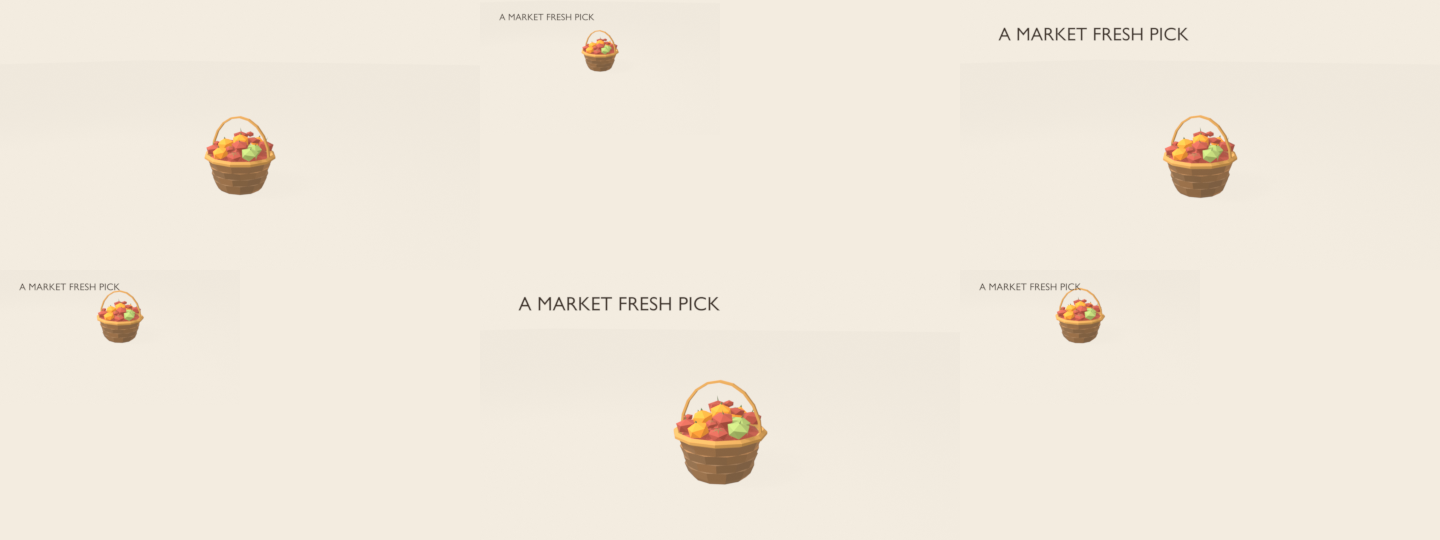
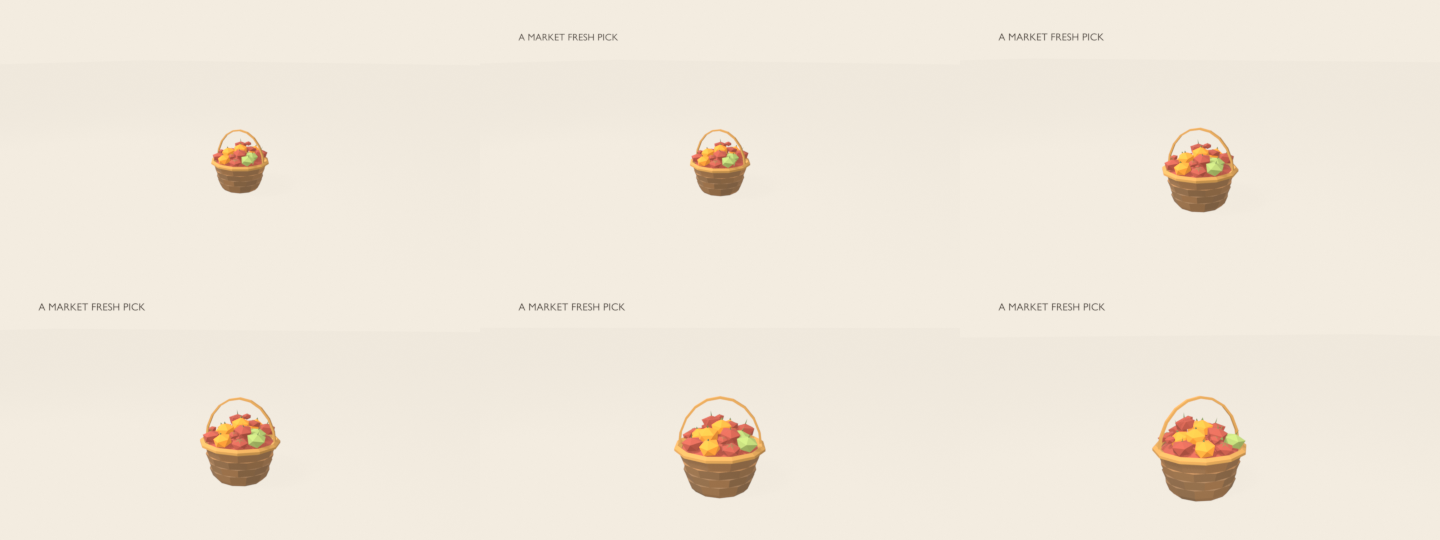
Add aspect-aware shot output and draft renders
Render app-sized portrait, landscape, square and 4:5 shots at 30 fps with a half-size draft option.

diff --git a/shots/render_shot.py b/shots/render_shot.py
@@ -24,9 +24,12 @@ if aspect:
     W, H = ASPECTS[aspect]
 else:
     W, H = map(int, S["resolution"])
+contract_resolution = [W, H]
 effective_aspect = aspect or (f"{W}:{H}")
-if draft and mode == "final":
-    W, H = W // 2, H // 2
+render_percentage = 25 if mode == "proof" else 50 if draft else 100
+movie_w = W * (render_percentage // 100) if render_percentage == 100 else W * render_percentage // 100
+movie_h = H * (render_percentage // 100) if render_percentage == 100 else H * render_percentage // 100
+movie_w -= movie_w % 2; movie_h -= movie_h % 2
 fps, duration = int(S.get("fps", 30)), float(S["duration"])
 frames = round(fps * duration)
 proof_hash = hashlib.sha256(spec_path.read_bytes()).hexdigest()
@@ -35,7 +38,7 @@ if mode == "final" and not force:
     if not proof_file.is_file():
         raise SystemExit("Final blocked: no proof.json found; run --proof first or pass --force")
     saved = json.loads(proof_file.read_text(encoding="utf-8"))
-    if not saved.get("passed") or saved.get("spec_sha256") != proof_hash or saved.get("aspect") != effective_aspect or saved.get("resolution") != [W, H]:
+    if not saved.get("passed") or saved.get("spec_sha256") != proof_hash or saved.get("aspect") != effective_aspect or saved.get("resolution") != contract_resolution:
         raise SystemExit("Final blocked: the matching proof failed or is stale; fix the spec and rerun --proof, or pass --force")
 
 def lin(hexstr, alpha=1):
@@ -69,7 +72,8 @@ def at(keys, t):
 bpy.ops.wm.read_factory_settings(use_empty=True)
 sc=bpy.context.scene; sc.render.engine="BLENDER_EEVEE"
 sc.render.resolution_x=W; sc.render.resolution_y=H
-sc.render.resolution_percentage=25 if mode=="proof" else 50 if draft else 100
+sc.render.resolution_percentage=render_percentage
+sc.eevee.taa_render_samples=4 if mode=="proof" else 8
 sc.render.fps=fps; sc.render.image_settings.file_format="PNG"; sc.render.image_settings.color_mode="RGB"
 sc.render.film_transparent=False; sc.view_settings.view_transform="Standard"
 paper=S.get("background", "#f3ece0")
@@ -160,13 +164,15 @@ if mode=="proof":
     result=subprocess.run(["node","-e",js,str(frame_dir),str(sheet)],cwd=str(ROOT/"web"),capture_output=True,text=True)
     if result.returncode: raise RuntimeError("contact sheet failed: "+result.stderr)
     passed=all(c["status"]=="PASS" for c in all_checks)
-    proof={"passed":passed,"spec":str(spec_path.relative_to(ROOT)),"spec_sha256":proof_hash,"aspect":effective_aspect,"resolution":[W,H],"fps":fps,"frames":sample_frames,"elapsed_s":round(elapsed,3),"checks":all_checks}
+    proof={"passed":passed,"spec":str(spec_path.relative_to(ROOT)),"spec_sha256":proof_hash,"aspect":effective_aspect,"resolution":contract_resolution,"proof_render_size":[round(contract_resolution[0]*.25),round(contract_resolution[1]*.25)],"fps":fps,"frames":sample_frames,"elapsed_s":round(elapsed,3),"checks":all_checks}
     proof_file.write_text(json.dumps(proof,indent=2),encoding="utf-8")
     for c in all_checks: print(f'{c["status"]}: frame={c["frame"]} t={c["time"]:.3f}s {c["name"]}: {c["detail"]}')
     print(("PASS" if passed else "FAIL")+f": proof overall ({sum(c['status']=='PASS' for c in all_checks)}/{len(all_checks)} checks); {elapsed:.2f}s; {sheet}; {proof_file}")
 else:
     movie=out/(spec_path.stem+".mp4")
     ffmpeg=ROOT/"web"/"node_modules"/"@remotion"/"compositor-win32-x64-msvc"/"ffmpeg.exe"
-    encoder=subprocess.run([str(ffmpeg),"-y","-framerate",str(fps),"-i",str(frame_dir/"%05d.png"),"-c:v","libx264","-pix_fmt","yuv420p",str(movie)],cwd=str(ROOT/"web"),capture_output=True,text=True)
+    # H.264 4:2:0 needs even pixel dimensions; the half-size 4:5 draft is 540×675,
+    # so trim one row during encode to keep broad yuv420p playback compatibility.
+    encoder=subprocess.run([str(ffmpeg),"-y","-framerate",str(fps),"-i",str(frame_dir/"%05d.png"),"-vf","scale=trunc(iw/2)*2:trunc(ih/2)*2","-c:v","libx264","-pix_fmt","yuv420p",str(movie)],cwd=str(ROOT/"web"),capture_output=True,text=True)
     if encoder.returncode: raise RuntimeError("Remotion FFmpeg encode failed: "+encoder.stderr[-3000:])
-    print(f"PASS: final rendered {len(list(sample_frames))} frames in {elapsed:.2f}s; encoded {movie} ({movie.stat().st_size} bytes)")
+    print(f"PASS: final rendered {len(list(sample_frames))} frames at {movie_w}x{movie_h} (contract {W}x{H}; {render_percentage}%) in {elapsed:.2f}s; encoded {movie} ({movie.stat().st_size} bytes)")

diff --git a/briefs/shots.report.md b/briefs/shots.report.md
@@ -13,6 +13,13 @@
 - **flyby:** 2 proof rounds; **90/90 PASS**, final check time 6.373 s. Round 1 found the title outside the safe region; moving it down in the spec cleared all checks. All three props have lowest z=0.000 m.
 - All proofs used 30 fps, 1920×1080 specs. Refreshed passing contact sheets are in the library README. All background samples are ΔE76≤3 (final successful run: 0.000 for hero/flyby; 0.000 on reveal's final JSON).
 
+### Step 3: app aspect sizes and drafts
+
+- Hero proof rounds for aspect coverage: **2**. First exposed portrait title/object crop and 4:5 title overflow; reducing the hero scale and font size in the spec made 9:16, 16:9, 1:1, and 4:5 all pass **34/34**. Each run rendered six proof frames at 30 fps; check times were approximately 3.6–4.1 s.
+- Encoded and probed 10-second 30 fps half-resolution MP4s for all four aspect contracts: 540×960 (9:16, 57.89 s), 960×540 (16:9, 51.29 s), 540×540 (1:1, 44.87 s), and 540×674 (4:5, 45.91 s). H.264 4:2:0 requires even dimensions, so the odd 675-pixel 4:5 draft height loses one bottom row during encode. Full-size 1080×1350 remains exact.
+- **Required hero final:** 300 frames at 1080×1920 / 30 fps. Blender frame render: **106.82 s**; complete command including startup and H.264 encode: **111.44 s**. Output `shots/out/hero-final-9x16/hero-orbit.mp4`, 670,613 bytes, probed as exactly 10.00 s H.264, 1080×1920, 30 fps.
+- A preliminary draft test exposed a double-halving bug and failed 4:5 H.264 encoding. Both were corrected before the successful matrix above: `--draft` now sets Blender's 50% percentage against the full contract dimensions, and encoding trims only the odd 4:5 draft row.
+
 ## What works
 
 - `shots/render_shot.py` reads the documented JSON spec, builds a Blender EEVEE scene, imports GLB props or creates Blender primitives, animates camera/object keyframes, lights and exact-time text overlays.

diff --git a/shots/spec.md b/shots/spec.md
@@ -10,4 +10,4 @@ Each JSON spec is a self-contained, portable Blender shot. Paths to GLB assets a
 
 All keyframe easing is deterministic between keys. Proof mode renders six evenly spaced frames at one-quarter resolution and writes a contact sheet, machine-readable `proof.json`, and per-check PASS/FAIL output. Checks cover text boxes vs projected object bounds, the title-safe region (normalized x=.04-.96, y=.04-.33), floor contact (z=0 within 1 cm unless `airborne`), background ΔE76≤3, and in-frame object bounds unless `allow_offscreen`, `enters`, or `exits` is set. Optional `subject_top_min` requires the projected subject to begin below a normalized y coordinate.
 
-Final mode requires a passing proof for the same spec hash, aspect, and output dimensions. `--force` bypasses that guard. `--aspect 9:16|16:9|1:1|4:5` selects app output dimensions (1080×1920, 1920×1080, 1080×1080, 1080×1350); `--draft` renders final output at half size. The spec's `fps` controls proof and final output.
+Final mode requires a passing proof for the same spec hash, aspect, and full output contract dimensions. `--force` bypasses that guard. `--aspect 9:16|16:9|1:1|4:5` selects app output dimensions (1080×1920, 1920×1080, 1080×1080, 1080×1350); `--draft` renders final output at 50% resolution while retaining that same proof contract. If a draft dimension is odd, H.264 encoding trims the last row/column to remain yuv420p compatible. The spec's `fps` controls proof and final output (the library uses the app's 30 fps).

diff --git a/shots/library/README.md b/shots/library/README.md
@@ -10,6 +10,8 @@ $blender = "C:/Users/naomi/Documents/vscode shenanigans/ManilaHack/bench3d/tools
 
 The final mode writes PNG frames and an H.264 MP4. Proof mode writes six sampled frames, a contact sheet, and exact sample times. Change the prompt first, then the JSON values for timings, camera keys, colors, or props. Specs use GLB paths relative to the repository root or Blender primitives. The sample basket comes from the existing `web/public/bench3d` asset library.
 
+Select app output framing with `--aspect 9:16`, `--aspect 16:9`, `--aspect 1:1`, or `--aspect 4:5`. These produce 1080×1920, 1920×1080, 1080×1080, and 1080×1350 respectively; `--draft` writes half-resolution final frames/video for quicker iteration. The library specs use 30 fps. Each format passed the hero's six-frame proof (34/34 checks); encoded drafts verified at 540×960, 960×540, 540×540, and 540×674 (the last row trimmed for H.264 4:2:0).
+
 | Shot | What it demonstrates | Prompt/spec | Thumbnail |
 |---|---|---|---|
 | **hero-orbit** | 10-second product hero: orbit, eased push-in at 6s, title at 1s, grounded basket on paper. Proof: 34/34 PASS, 30 fps. | [prompt](hero-orbit.prompt.md) · [spec](hero-orbit.json) | ![Passing hero-orbit proof sheet](thumbs/hero-orbit.png) |

diff --git a/HANDOFF.md b/HANDOFF.md
@@ -51,6 +51,8 @@ so Filipino voices stay on Edge TTS.
 - **Shot proof layout fixes (round 2, step 2):** hero-orbit, reveal-rise, and flyby specs now all pass automated proof (34/34, 34/34,
   90/90 respectively); passing proof sheets replace the initial thumbnails in `shots/library/README.md`. Round counts and measured
   proof timings are recorded in `briefs/shots.report.md`.
+- **Shot formats (round 2, step 3):** scene runner supports 9:16, 16:9, 1:1 and 4:5 at 30 fps plus half-size draft rendering. All
+  hero aspect proofs and draft MP4s passed metadata checks; the full 1080×1920 hero took 111.44 s end to end. Details in the report.
 
 - Card and inspector lengths show on-screen seconds (minus the 0.2 s transition overlap), so a fixed 2.0 s reads 2.0 s.
 - Browser-checked: a music recommendation chip switches the track (preview loads); a 1.5 s fixed length on a 9.7 s voiceover
